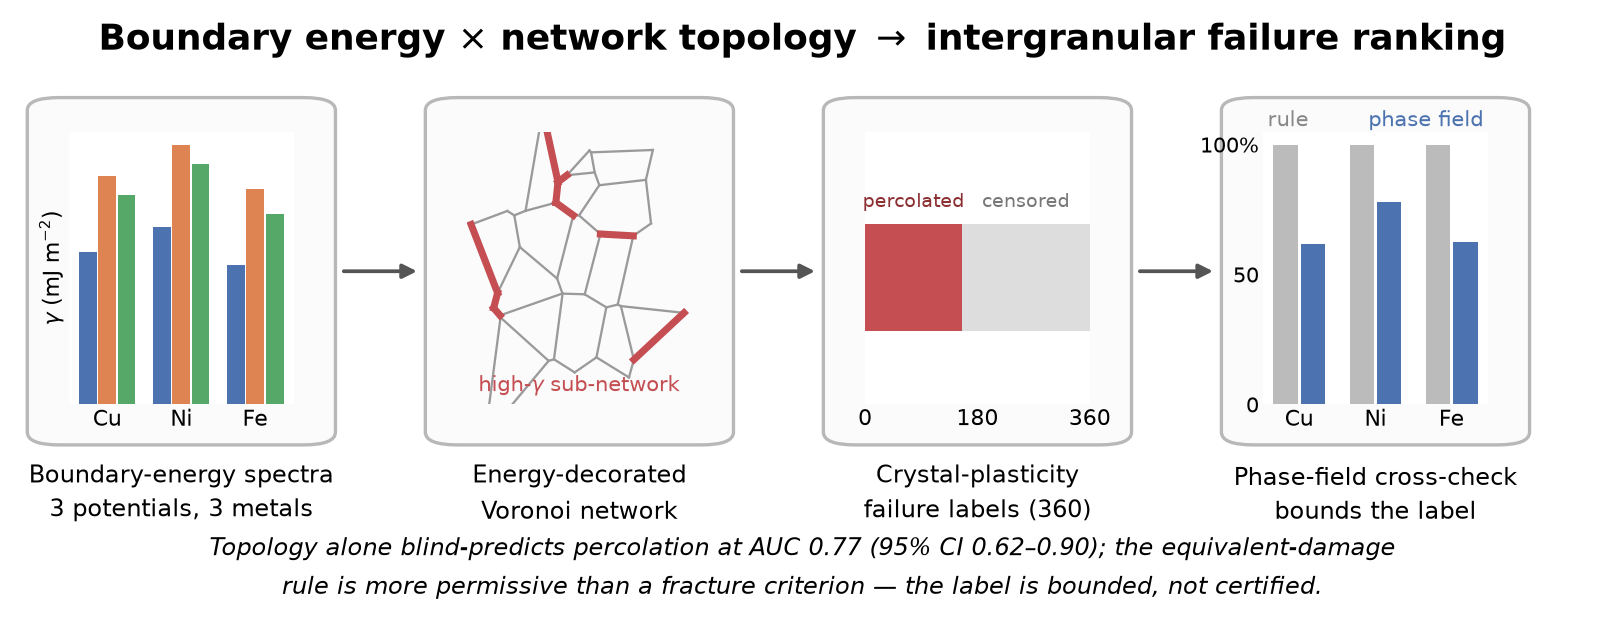
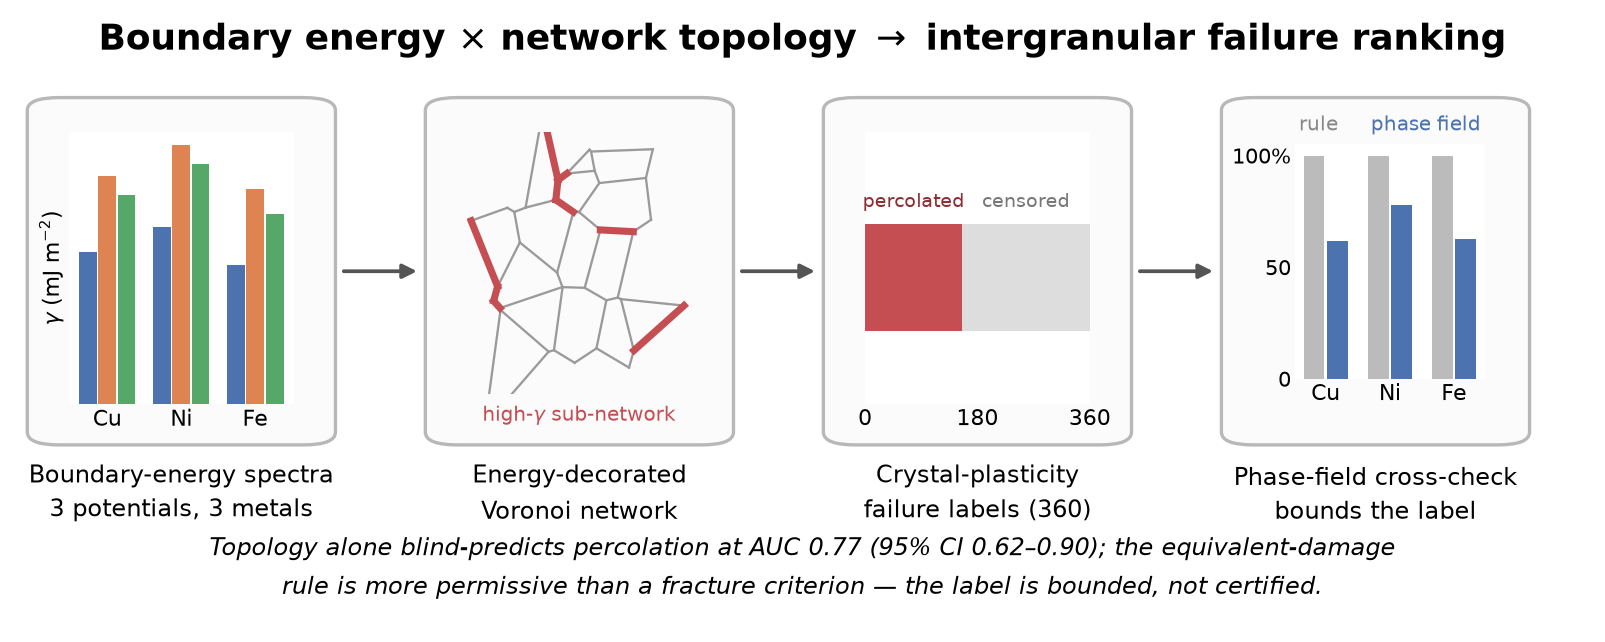
Fix label collisions in graphical abstract panels b and d

Changed region(s): [[0.7477, 0.1558, 0.9346, 0.6542], [0.2804, 0.2492, 0.4361, 0.6542], [0.3738, 0.2181, 0.405, 0.2492]]

diff --git a/submission_ijp/make_graphical_abstract.py b/submission_ijp/make_graphical_abstract.py
@@ -73,7 +73,7 @@ for s in ax1.spines.values():
 ax1.set_ylabel("$\\gamma$ (mJ m$^{-2}$)", fontsize=5.2, labelpad=1)
 
 # --- panel 2: schematic Voronoi network with high-energy sub-network --------
-ax2 = fig.add_axes([xs[1] + 0.018, Y0 + 0.055, W - 0.036, H - 0.10])
+ax2 = fig.add_axes([xs[1] + 0.018, Y0 + 0.072, W - 0.036, H - 0.117])
 rng = np.random.default_rng(7)
 pts = rng.uniform(0, 1, (26, 2))
 from scipy.spatial import Voronoi
@@ -93,8 +93,8 @@ ax2.set_ylim(-0.02, 1.02)
 ax2.set_xticks([])
 ax2.set_yticks([])
 ax2.set_frame_on(False)
-ax2.text(0.5, 0.03, "high-$\\gamma$ sub-network", transform=ax2.transAxes,
-         ha="center", va="bottom", fontsize=5.0, color="#C44E52")
+bg.text(xs[1] + W / 2, 0.352, "high-$\\gamma$ sub-network", ha="center", va="center",
+        fontsize=4.8, color="#C44E52")
 
 # --- panel 3: label balance -----------------------------------------------
 ax3 = fig.add_axes([xs[2] + 0.018, Y0 + 0.055, W - 0.036, H - 0.10])
@@ -114,7 +114,7 @@ ax3.text(per / 2, 0.34, "percolated", ha="center", va="bottom", fontsize=4.5, co
 ax3.text(per + (tot - per) / 2, 0.34, "censored", ha="center", va="bottom", fontsize=4.5, color="#777777")
 
 # --- panel 4: rule versus phase field ------------------------------------
-ax4 = fig.add_axes([xs[3] + 0.018, Y0 + 0.055, W - 0.036, H - 0.10])
+ax4 = fig.add_axes([xs[3] + 0.038, Y0 + 0.095, W - 0.058, H - 0.160])
 metals = ["Cu", "Ni", "Fe"]
 rule = [1.0, 1.0, 1.0]
 pf = [37 / 60, 42 / 54, 15 / 24]
@@ -128,9 +128,9 @@ ax4.set_yticklabels(["0", "50", "100%"], fontsize=5.0)
 ax4.tick_params(length=0, pad=1)
 for s in ax4.spines.values():
     s.set_visible(False)
-ax4.text(0.02, 1.02, "rule", transform=ax4.transAxes, fontsize=5.0, color="#888888")
-ax4.text(0.98, 1.02, "phase field", transform=ax4.transAxes, ha="right",
-         fontsize=5.0, color="#4C72B0")
+ax4.text(0.02, 1.06, "rule", transform=ax4.transAxes, fontsize=4.8, color="#888888")
+ax4.text(0.98, 1.06, "phase field", transform=ax4.transAxes, ha="right",
+         fontsize=4.8, color="#4C72B0")
 
 fig.savefig(OUT, dpi=300, facecolor="white")
 plt.close(fig)
